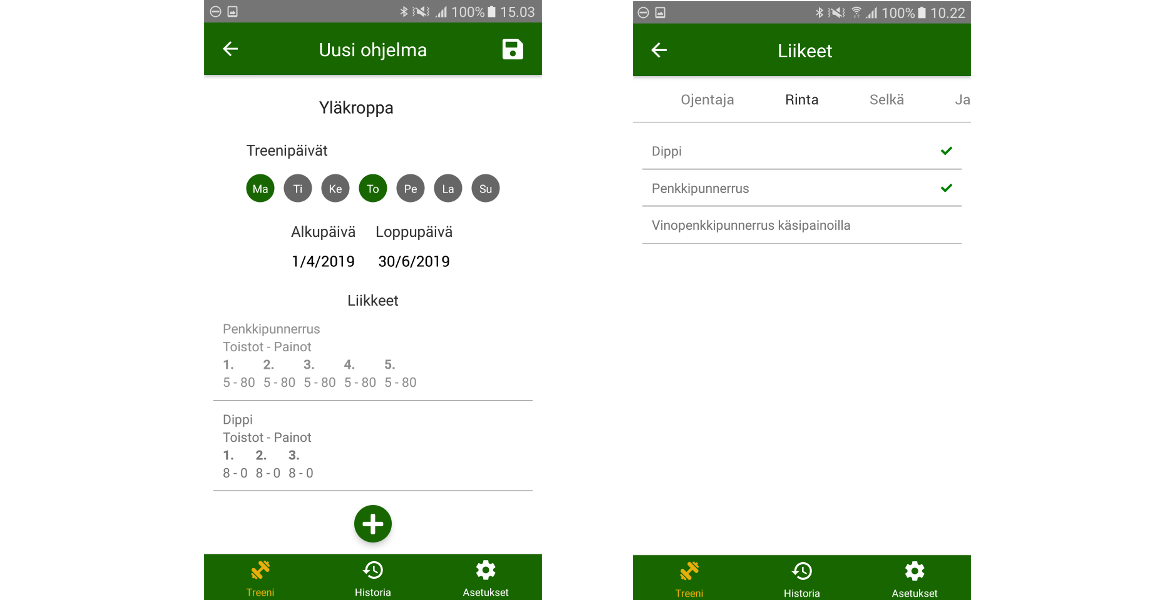
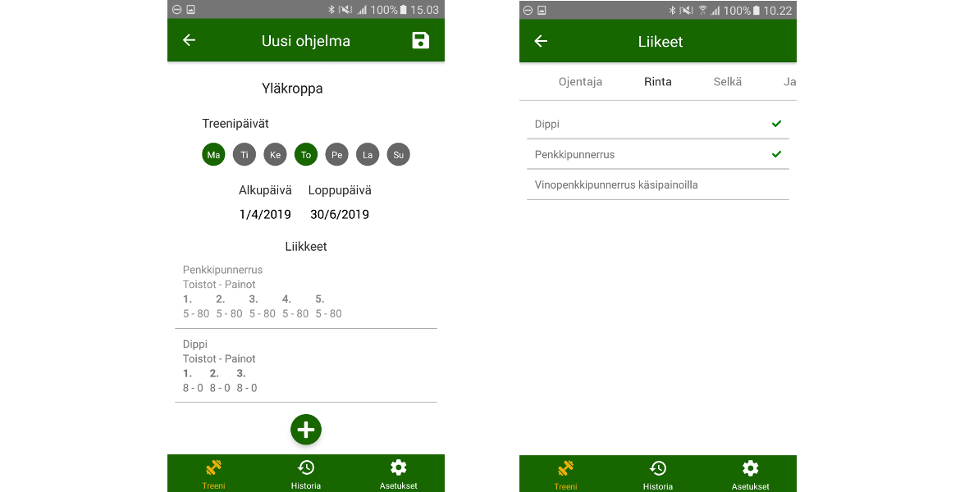
image quality changed

diff --git a/index.html b/index.html
@@ -12,7 +12,7 @@
 <body onload="showImage()">
   <header id="header">
     <div id="imageContainer">
-      <img id="image" src="images/olli.PNG" alt="kuva">
+      <img id="image" src="images/olli.jpg" alt="kuva">
       <div id="headerInformation">
         <h1 id="headerInformationTitle">Olli Korhonen</h1>
         <h2 id="headerInformationTitle">Engineer</h2>
@@ -72,26 +72,26 @@
       if user go to single video page and go back to youtube video page then application will fetch videos from same
       channel what was earlier.
     </p>
-    <img class="graphicDesignImage" src="images/home.PNG" alt="image">
+    <img class="graphicDesignImage" src="images/home.jpg" alt="image">
     <p class="portfolioP">
         On the body composition page will display all body compositions and there is possible to set new body composition.
         Body composition is possible also remove when you click some item on the graph.
       </p>
-    <img class="graphicDesignImage" src="images/body.PNG" alt="image">
+    <img class="graphicDesignImage" src="images/body.jpg" alt="image">
     <p class="portfolioP">
         On the food recipe page will display all recipes. There is possible to create new recipes and remove recipes.
         when you click some recipe application will move to single recipe page where is more information from recipe.
       </p>
-    <img class="graphicDesignImage" src="images/food.PNG" alt="image">
-    <img class="graphicDesignImage" src="images/recipe.PNG" alt="image">
+    <img class="graphicDesignImage" src="images/food.jpg" alt="image">
+    <img class="graphicDesignImage" src="images/recipe.jpg" alt="image">
     <p class="portfolioP">
         On the youtube videos page will display automatically videos from channel what is first channel on the database.
         There is possible to save new channel using channel id. There is possible to set channel which will display
         on the homepage. There is also possible to remove channel.
         When you click some video item, application will move to single video page.
       </p>
-    <img class="graphicDesignImage" src="images/videos.PNG" alt="image">
-    <img class="graphicDesignImage" src="images/video.PNG" alt="image">
+    <img class="graphicDesignImage" src="images/videos.jpg" alt="image">
+    <img class="graphicDesignImage" src="images/video.jpg" alt="image">
     <a href="#portfolio"><Button class="hideButton" onclick="hidePortfolio()">Hide</Button></a>
   </div>
   <div id="mobileDevelopment">
@@ -120,20 +120,20 @@
   <div id="graphicDesign">
     <h1>Graphic design</h1>
     <h2>Graphic design assignment</h2>
-    <img class="graphicDesignImage" src="images/cover.png" alt="image">
-    <img class="graphicDesignImage" src="images/fishing.png" alt="image">
-    <img class="graphicDesignImage" src="images/frisbeegolfandphotography.png" alt="image">
-    <img class="graphicDesignImage" src="images/hiking.png" alt="image">
-    <img class="graphicDesignImage" src="images/backpages.png" alt="image">
+    <img class="graphicDesignImage" src="images/cover.jpg" alt="image">
+    <img class="graphicDesignImage" src="images/fishing.jpg" alt="image">
+    <img class="graphicDesignImage" src="images/frisbeegolfandphotography.jpg" alt="image">
+    <img class="graphicDesignImage" src="images/hiking.jpg" alt="image">
+    <img class="graphicDesignImage" src="images/backpages.jpg" alt="image">
     <h2>3D-modeling</h2>
     <p class="portfolioP">
       I have made these using Blender.
     </p>
-    <img class="graphicDesignImage" src="images/bathroom.png" alt="image">
-    <img class="graphicDesignImage" src="images/valmiskone.png" alt="image">
-    <img class="graphicDesignImage" src="images/sausagedinner.png" alt="image">
-    <img class="graphicDesignImage" src="images/penkki.png" alt="image">
-    <img class="graphicDesignImage" src="images/sormus.png" alt="image">
+    <img class="graphicDesignImage" src="images/bathroom.jpg" alt="image">
+    <img class="graphicDesignImage" src="images/valmiskone.jpg" alt="image">
+    <img class="graphicDesignImage" src="images/sausagedinner.jpg" alt="image">
+    <img class="graphicDesignImage" src="images/penkki.jpg" alt="image">
+    <img class="graphicDesignImage" src="images/sormus.jpg" alt="image">
     <a href="#portfolio"><Button class="hideButton" onclick="hidePortfolio()">Hide</Button></a>
   </div>
   <div id="photography">

diff --git a/script.js b/script.js
@@ -1,14 +1,14 @@
 var index = 0;
 var images = [
-  "images/joki2.jpg",
-  "images/koskisumu.jpg",
-  "images/myllysumu2.jpg",
-  "images/silta.jpg",
-  "images/lokki.jpg",
-  "images/sorsa.jpg",
-  "images/talo.jpg",
-  "images/vesi.jpg",
-  "images/heli.jpg",
+  "images/joki22.jpg",
+  "images/koskisumu2.jpg",
+  "images/myllysumu22.jpg",
+  "images/silta2.jpg",
+  "images/lokki2.jpg",
+  "images/sorsa2.jpg",
+  "images/talo2.jpg",
+  "images/vesi2.jpg",
+  "images/heli2.jpg",
 ];
 
 function showPortfolio(id) {
